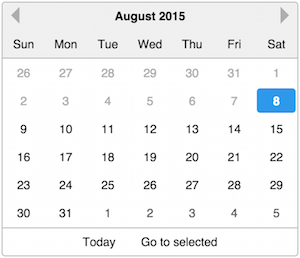
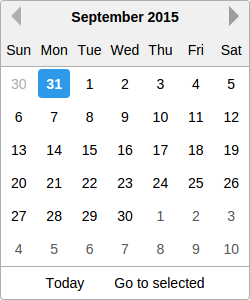
fix readme

diff --git a/index.jsx b/index.jsx
@@ -1,6 +1,7 @@
 'use strict'
 
-require('./index.css')
+require('./base.css')
+require('./theme/hackerone.css')
 
 var moment = require('moment');
 var React      = require('react')
@@ -52,7 +53,7 @@ var App = React.createClass({
             </p>
 
             <DatePicker
-              style={{width: 350, height: 300}}
+              style={{width: 250, height: 300}}
               minDate={moment()}
               locale={LOCALE}
               date={VALUE}
